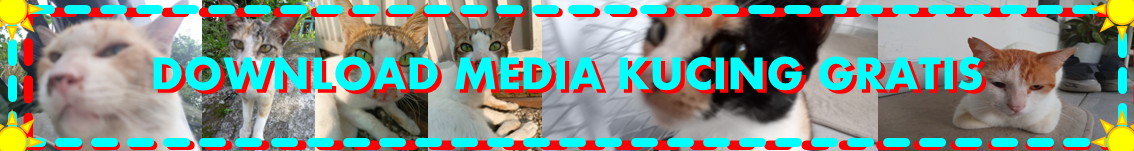
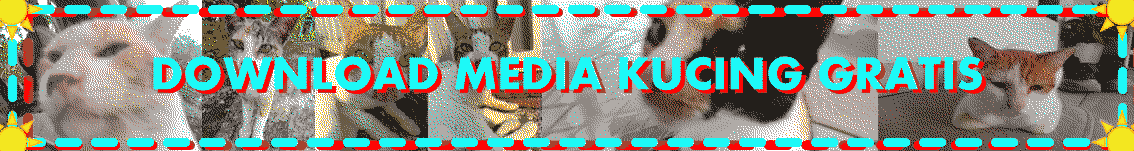
Pembaruan

diff --git a/index.html b/index.html
@@ -2,13 +2,19 @@
 <html>
 
 <head>
-    <title>AimarWebProject</title>
+    <title>AimarWebProject - Website Aimar Terbaru</title>
     <link rel="stylesheet" href="styles.css">
     <link rel="shortcut icon" href="gambar/silvia.png" type="image/x-icon">
 </head>
 
 <body>
-
+    <a href="kreasi.html">
+        <div id="BannerKiri"></div>
+    </a>
+    <a href="artikel.html">
+        <div id="BannerKanan"></div>
+    </a>
+    
     <center>
         <marquee id="Welcome" behavior="scroll" direction="left" scrollamount="10">
             <img class="rotimg" src="gambar/silvia.png" alt="Scrolling Silvia start" width="200">
@@ -53,9 +59,9 @@
     </center>
 
     <center>
-
+        
         <a href="media.html">
-            <img src="gambar/banner_download_media_kucing.png" alt="Download media kucing sekarang! Gratis!" width="700">
+           <div><img class="restimg" src="gambar/banner_download_media_kucing.png" alt="Download media kucing sekarang! Gratis!" width="700"></div>
         </a>
 
         <h2>Selamat datang di AimarWebProject! Senang</h2>
@@ -170,7 +176,12 @@
         </p>
 
         <hr style="width:700px;border:none;height:2px;background-color:yellow;box-shadow: 2px 2px red;">
-        Hak Cipta © 2026 AimarWebProject. Dibuat oleh Aimar R.D. &nbsp;&nbsp;&nbsp; <img src="gambar/banner_footer.png" alt="Banner footer" width="90">
+        <p>
+            <b>Resmi pembuatan dari Aimar R.D. di tahun 2026</b><br>
+            Hak Cipta AimarWebProject © Tahun 2026.<br>
+        </p>
+
+        <img src="gambar/banner_footer.png" alt="Banner footer" width="200">
     </center>
 
 </body>

diff --git a/styles.css b/styles.css
@@ -3,7 +3,7 @@ body {
     background-repeat: repeat;
     background-attachment: scroll;
     background-color: black;
-    background-image: url('gambar/garry.png');
+    background-image: url('gambar/bg.png');
     font-family: Verdana, Geneva, Tahoma, sans-serif;
     font-size: larger;
     image-rendering: pixelated;
@@ -43,7 +43,30 @@ a:visited, a:link {
     color: cyan;
 }
 a:active {
-    color: azure;
+    color: yellow;
+}
+.restimg {
+    pointer-events: none;
+    user-select: none;
+}
+#BannerKiri {
+    background-image: url('gambar/banner_stiker_kiri.png');
+    border: 2px solid cyan;
+    box-shadow: 4px 4px red;
+    height: 600px;
+    width: 100px;
+    position: absolute;
+    top: 400px;
+}
+#BannerKanan {
+    background-image: url('gambar/banner_artikel_kanan.png');
+    border: 2px solid cyan;
+    box-shadow: -4px 4px red;
+    height: 600px;
+    width: 100px;
+    position: absolute;
+    top: 400px;
+    right: 8px;
 }
 .scaleimg {
     animation: scaleImageBackAndForth 2s linear infinite;

diff --git a/pembaruan.html b/pembaruan.html
@@ -55,7 +55,7 @@
     <p>1.2 Postingan baru : Viricossa membentuk seperti roti</p>
 
     <h2>1 Maret 2026 (RAMADHAN SPECIAL)</h2>
-    <p>1.0 Pembaruan styling latar (mengganti warna menjadi hitam)</p>
+    <p>1.0 Pembaruan styling latar</p>
     <p>1.1 Menambahkan banner mengajak untuk mendownload media kucing</p>
     <p>1.2 Menambahkan satu FAQ di halaman beranda</p>
     <p>1.3 Menambahkan satu halaman baru : stiker dari kreasi</p>
@@ -64,6 +64,7 @@
     <p>1.6 Menambahkan animasi untuk Silvia di judul utama website</p>
     <p>1.7 Pembaruan styling warna teks & bayangan di link anchor</p>
     <p>1.8 Pembaruan layout di halaman : kreasi</p>
+    <p>1.9 Banner di sebelah kiri dan kanan</p>
 </body>
 
 </html>
